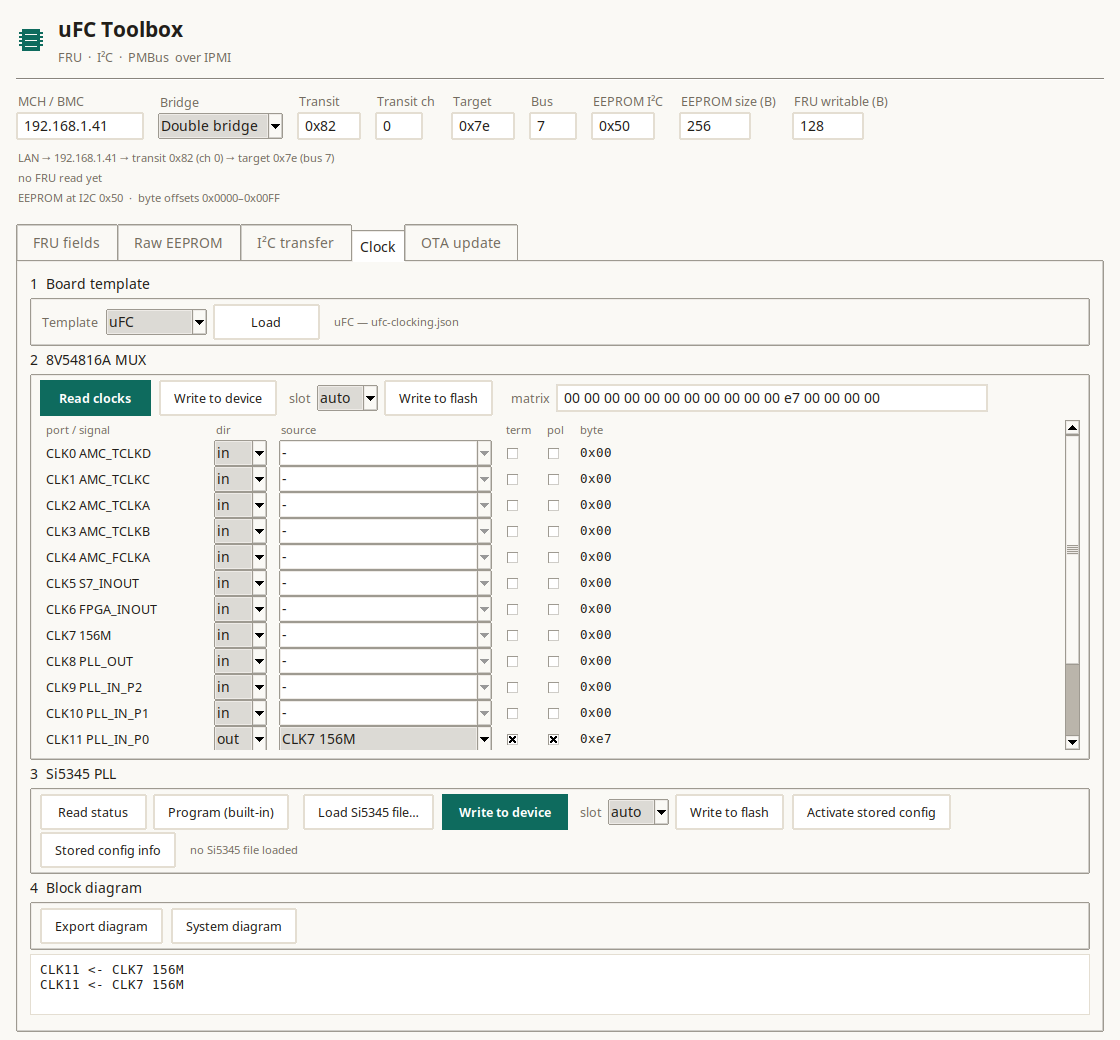
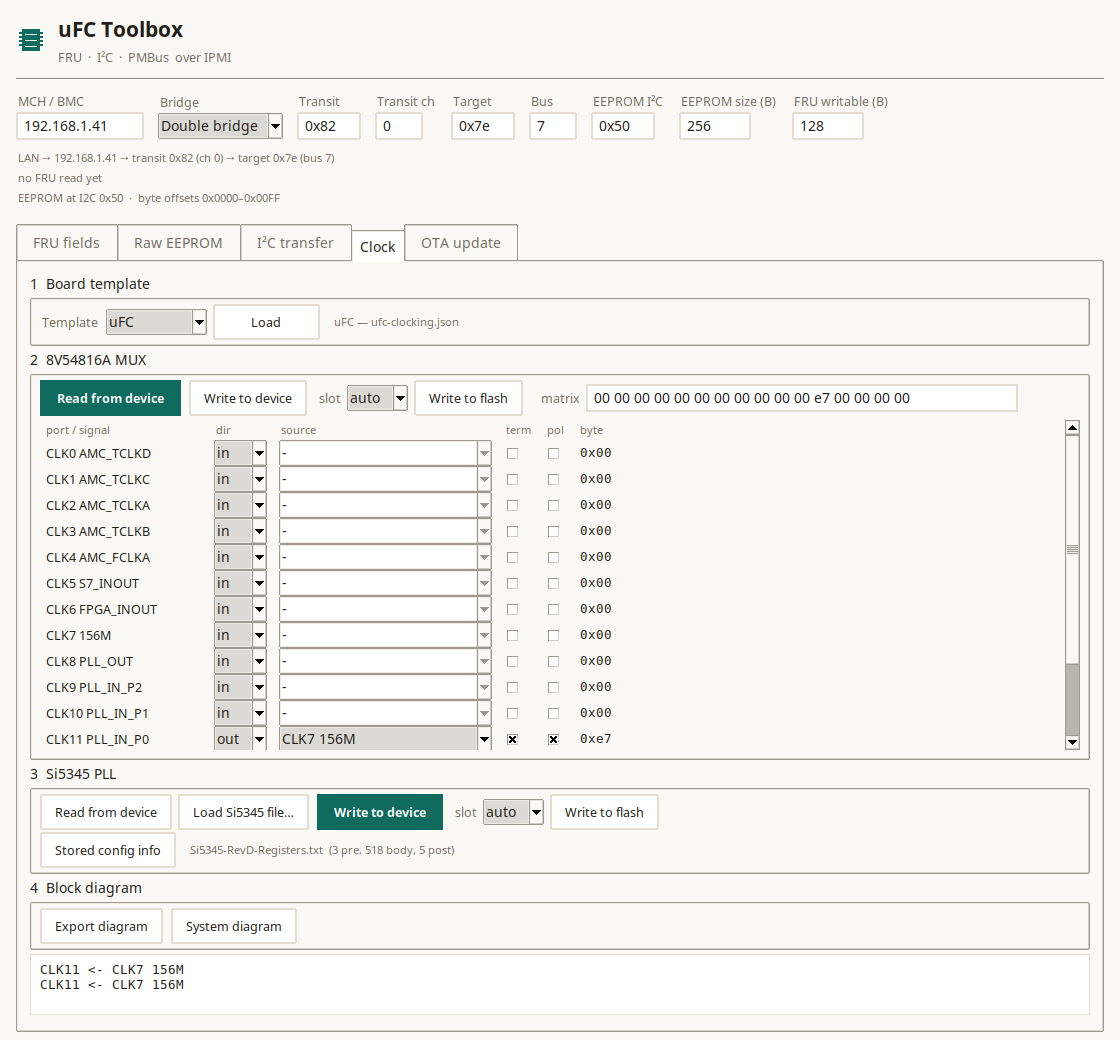
toolbox: symmetric MUX/PLL operation concept
Both blocks now offer the same operations:
  MUX: Read from device (updates the table) / Write to device / slot /
       Write to flash
  PLL: Read from device (reads the loaded register list and saves a
       ClockBuilder-style dump) / Load Si5345 file / Write to device /
       slot / Write to flash
The PLL 'Read status' and 'Program (built-in)' buttons are gone from the
row (firmware 0x16/0x17 still exist) and 'Activate stored config' was
dropped because 'Write to flash' activates now; 'Stored config info'
stays on the second line.
Verified the PLL read: 526 registers read in ~34 s and saved.
README and screenshot updated; binary rebuilt.

Changed region(s): [[0.0312, 0.7385, 0.8438, 0.8308], [0.0625, 0.3692, 0.8125, 0.4], [0.875, 0.3692, 0.9062, 0.4]]

diff --git a/tools/uFC_toolbox/fru_gui_tk.py b/tools/uFC_toolbox/fru_gui_tk.py
@@ -25,7 +25,7 @@ sys.path.insert(0, os.path.dirname(os.path.abspath(__file__)))
 from fru_core import (FruAccess, parse_fru, build_image, image_for_eeprom,  # noqa: E402
                       EEPROM_SIZE, FRU_MAX_SIZE, FRU_MAX_STRING,
                       mfg_minutes_to_str, mfg_str_to_minutes,
-                      parse_si5345_txt, program_si5345,
+                      parse_si5345_txt, program_si5345, read_si5345,
                       build_clock_slot, upload_clock_slot)
 
 APP_TITLE = "uFC Toolbox"
@@ -353,10 +353,10 @@ class FruEditor(tk.Tk):
         mux.pack(fill="both", expand=True, pady=(0, 4))
         mrow = ttk.Frame(mux)
         mrow.pack(fill="x", pady=(0, 4))
-        readb = ttk.Button(mrow, text="Read clocks", style="Primary.TButton",
+        readb = ttk.Button(mrow, text="Read from device", style="Primary.TButton",
                            command=self.clock_switch_read)
         readb.pack(side="left")
-        self._hint(readb, "Read the 16 port bytes from the switch (mux 0x70 ch2, 0x58)")
+        self._hint(readb, "Read the 16 port bytes from the switch and update the table")
         writeb = ttk.Button(mrow, text="Write to device", command=self.clock_switch_write)
         writeb.pack(side="left", padx=(8, 0))
         self._hint(writeb, "Write the 16 port bytes to the switch (volatile)")
@@ -441,14 +441,11 @@ class FruEditor(tk.Tk):
         pll.pack(fill="x", pady=(0, 4))
         prow = ttk.Frame(pll)
         prow.pack(fill="x")
-        st = ttk.Button(prow, text="Read status", command=self.clock_status)
-        st.pack(side="left")
-        self._hint(st, "Si5345 programming status (0x17)")
-        prog = ttk.Button(prow, text="Program (built-in)", command=self.clock_program)
-        prog.pack(side="left", padx=(6, 0))
-        self._hint(prog, "Program the Si5345 from the firmware's compiled table (0x16)")
+        rd = ttk.Button(prow, text="Read from device", command=self.si_read_device)
+        rd.pack(side="left")
+        self._hint(rd, "Read the loaded register list from the Si5345 and save it to a file")
         lf = ttk.Button(prow, text="Load Si5345 file…", command=self.si_load)
-        lf.pack(side="left", padx=(14, 0))
+        lf.pack(side="left", padx=(6, 0))
         self._hint(lf, "Load a ClockBuilder register script (pre/body/post)")
         dev = ttk.Button(prow, text="Write to device", style="Primary.TButton",
                          command=self.si_write_device)
@@ -464,10 +461,6 @@ class FruEditor(tk.Tk):
         fl.pack(side="left", padx=(6, 0))
         self._hint(fl, "Store matrix + Si5345 table in the MMC clock store and "
                        "activate it now (also applied at the next power-on)")
-        applyb = ttk.Button(prow, text="Activate stored config", command=self.store_apply)
-        applyb.pack(side="left", padx=(8, 0))
-        self._hint(applyb, "Re-apply the stored slot without rewriting it "
-                           "(switch matrix + Si5345)")
         srow2 = ttk.Frame(pll)
         srow2.pack(fill="x", pady=(2, 0))
         infob = ttk.Button(srow2, text="Stored config info", command=self.store_status)
@@ -1036,6 +1029,43 @@ class FruEditor(tk.Tk):
             self._status("Si5345 programmed (device)", "ok")
         except Exception as e:
             self._status("Si5345 write failed", "error")
+            self._clock_log("ERROR: %s" % e)
+
+    def si_read_device(self):
+        """Read the loaded register list from the Si5345 and save it as a script."""
+        if not self.si_groups:
+            self._clock_log("ERROR: load a Si5345 register file first "
+                            "(it defines the addresses to read)")
+            return
+        path = filedialog.asksaveasfilename(
+            title="Save the Si5345 register dump",
+            defaultextension=".txt",
+            initialfile="Si5345-dump.txt",
+            filetypes=[("ClockBuilder text", "*.txt")])
+        if not path:
+            return
+        try:
+            def progress(n):
+                if n % 64 == 0:
+                    self._clock_log("Si5345: %d registers read" % n)
+                    self.update_idletasks()
+            vals = read_si5345(self._access(), self.si_groups, progress=progress)
+            lines = ["# Si534x/7x/8x/9x Registers Script",
+                     "# Part: Si5345",
+                     "# Dumped from the device by uFC Toolbox",
+                     "Address,Data"]
+            for section, title in (("pre", "configuration preamble"),
+                                   ("body", "configuration registers"),
+                                   ("post", "configuration postamble")):
+                lines.append("# Start %s" % title)
+                lines += ["0x%04X,0x%02X" % (a, v) for a, v in vals[section]]
+                lines.append("# End %s" % title)
+            open(path, "w").write("\n".join(lines) + "\n")
+            n = sum(len(v) for v in vals.values())
+            self._clock_log("Si5345: %d registers read, saved to %s" % (n, path))
+            self._status("Si5345 dump saved", "ok")
+        except Exception as e:
+            self._status("Si5345 read failed", "error")
             self._clock_log("ERROR: %s" % e)
 
     def si_write_flash(self):

diff --git a/tools/uFC_toolbox/fru_core.py b/tools/uFC_toolbox/fru_core.py
@@ -346,6 +346,33 @@ def build_clock_slot(matrix, si_groups=None, seq=1):
     return bytes(hdr) + bytes(fru)
 
 
+def read_si5345(access, groups, progress=None):
+    """Read the registers listed in groups (pre/body/post) from the device.
+
+    Returns {section: [(addr, value)]} using page-aware 8-bit addressing.
+    """
+    out = {"pre": [], "body": [], "post": []}
+    page = None
+    n = 0
+    for section in ("pre", "body", "post"):
+        for addr, _old in groups.get(section, []):
+            reg = addr & 0xFF
+            if reg == 0x01:
+                val = access.xfer(1, [(0x70, 2)], 0x69, bytes([0x01]), 1)[0]
+                page = val
+            else:
+                p = addr >> 8
+                if page != p:
+                    access.xfer(1, [(0x70, 2)], 0x69, bytes([0x01, p]))
+                    page = p
+                val = access.xfer(1, [(0x70, 2)], 0x69, bytes([reg]), 1)[0]
+            out[section].append((addr, val))
+            n += 1
+            if progress and n % 64 == 0:
+                progress(n)
+    return out
+
+
 def upload_clock_slot(access, slot, slot_index=0xFF, progress=None):
     """Upload a slot with begin/block/finish; returns the finish response.
 

diff --git a/tools/uFC_toolbox/README.md b/tools/uFC_toolbox/README.md
@@ -138,13 +138,13 @@ Four blocks:
    `tools/clocking/<template>-clocking.json`; the template drives the block
    diagram, the source list and the port capabilities. (`u4fcp-clocking.json`
    is a skeleton until its points/pins are extracted from the u4FCP sources.)
-2. **8V54816A MUX** — **Read clocks**, **Write to device**, the shared
-   **slot** selector, **Write to flash**, the 16-port table (scrolled) and the
-   matrix line.
-3. **Si5345 PLL** — **Read status**, Program (built-in), **Load Si5345
-   file**, **Write to device**, the same shared **slot** selector, **Write to
-   flash**, Activate stored config; the second line holds Stored config info
-   and the loaded-file name.
+2. **8V54816A MUX** — **Read from device** (updates the table), **Write to
+   device**, the shared **slot** selector, **Write to flash**, the 16-port
+   table (scrolled) and the matrix line.
+3. **Si5345 PLL** — **Read from device** (saves a register dump file),
+   **Load Si5345 file**, **Write to device**, the same shared **slot**
+   selector, **Write to flash**; the second line holds Stored config info and
+   the loaded-file name.
    The slot selector is one variable shown in both blocks; Write to flash
    always stores matrix + loaded table and activates it.
 4. **Block diagram** — Export diagram (DOT) and System diagram (canvas
